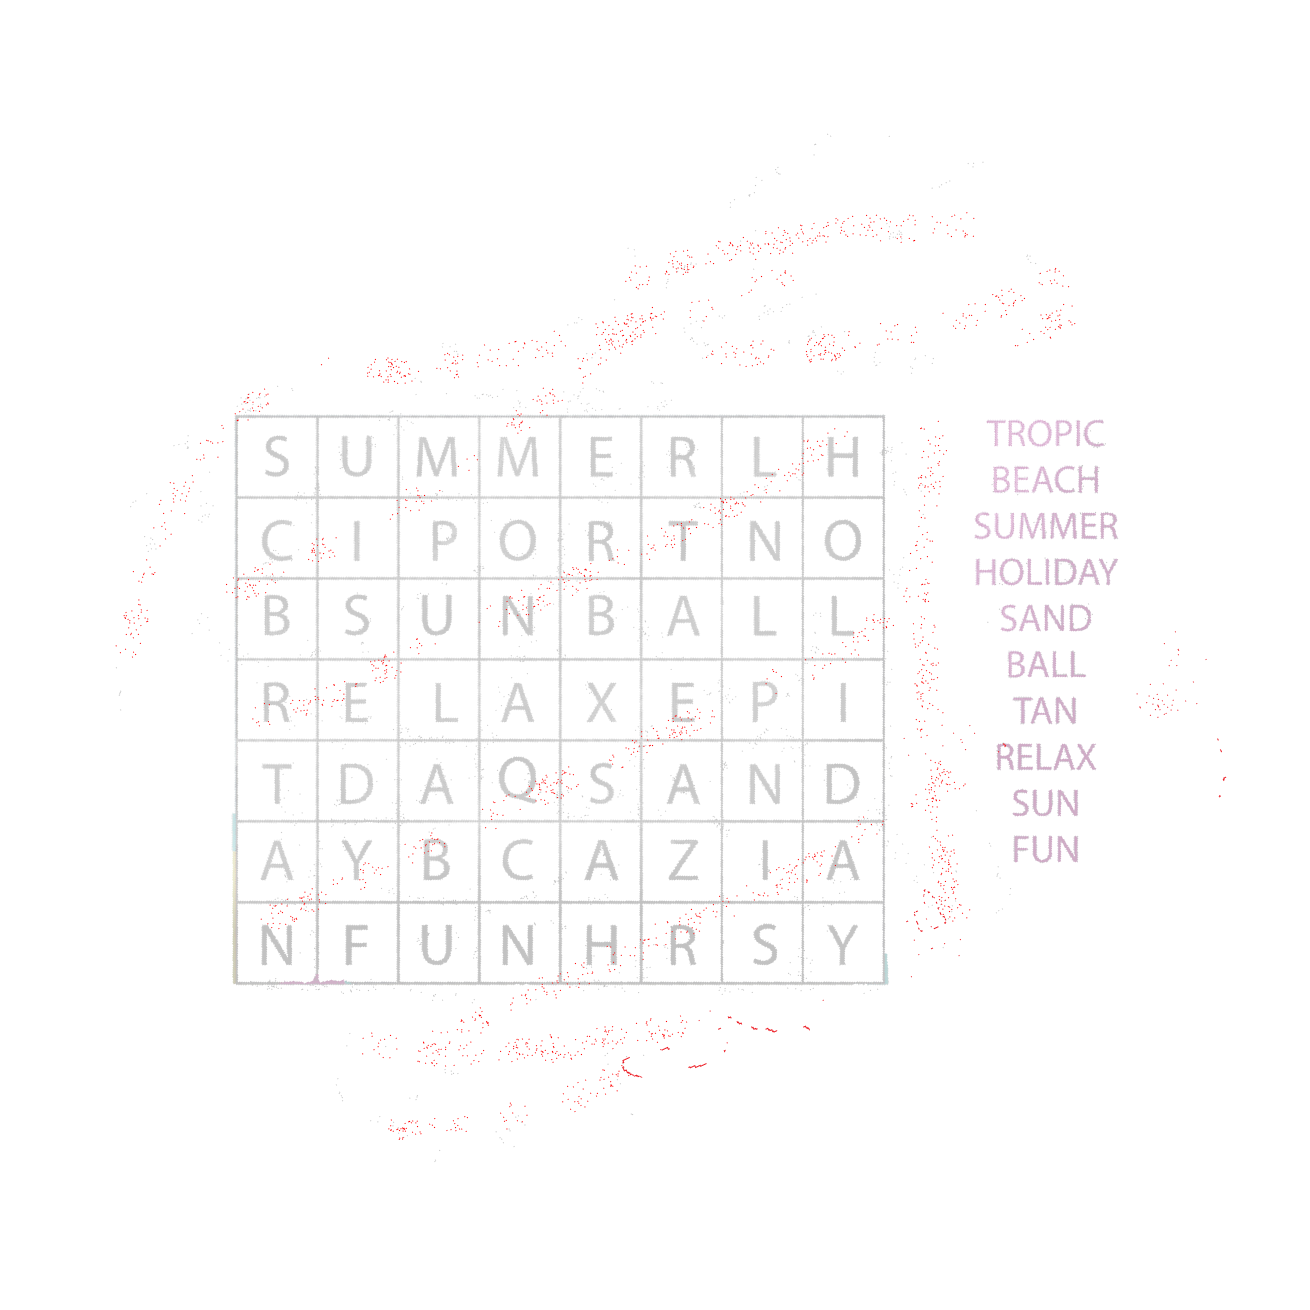
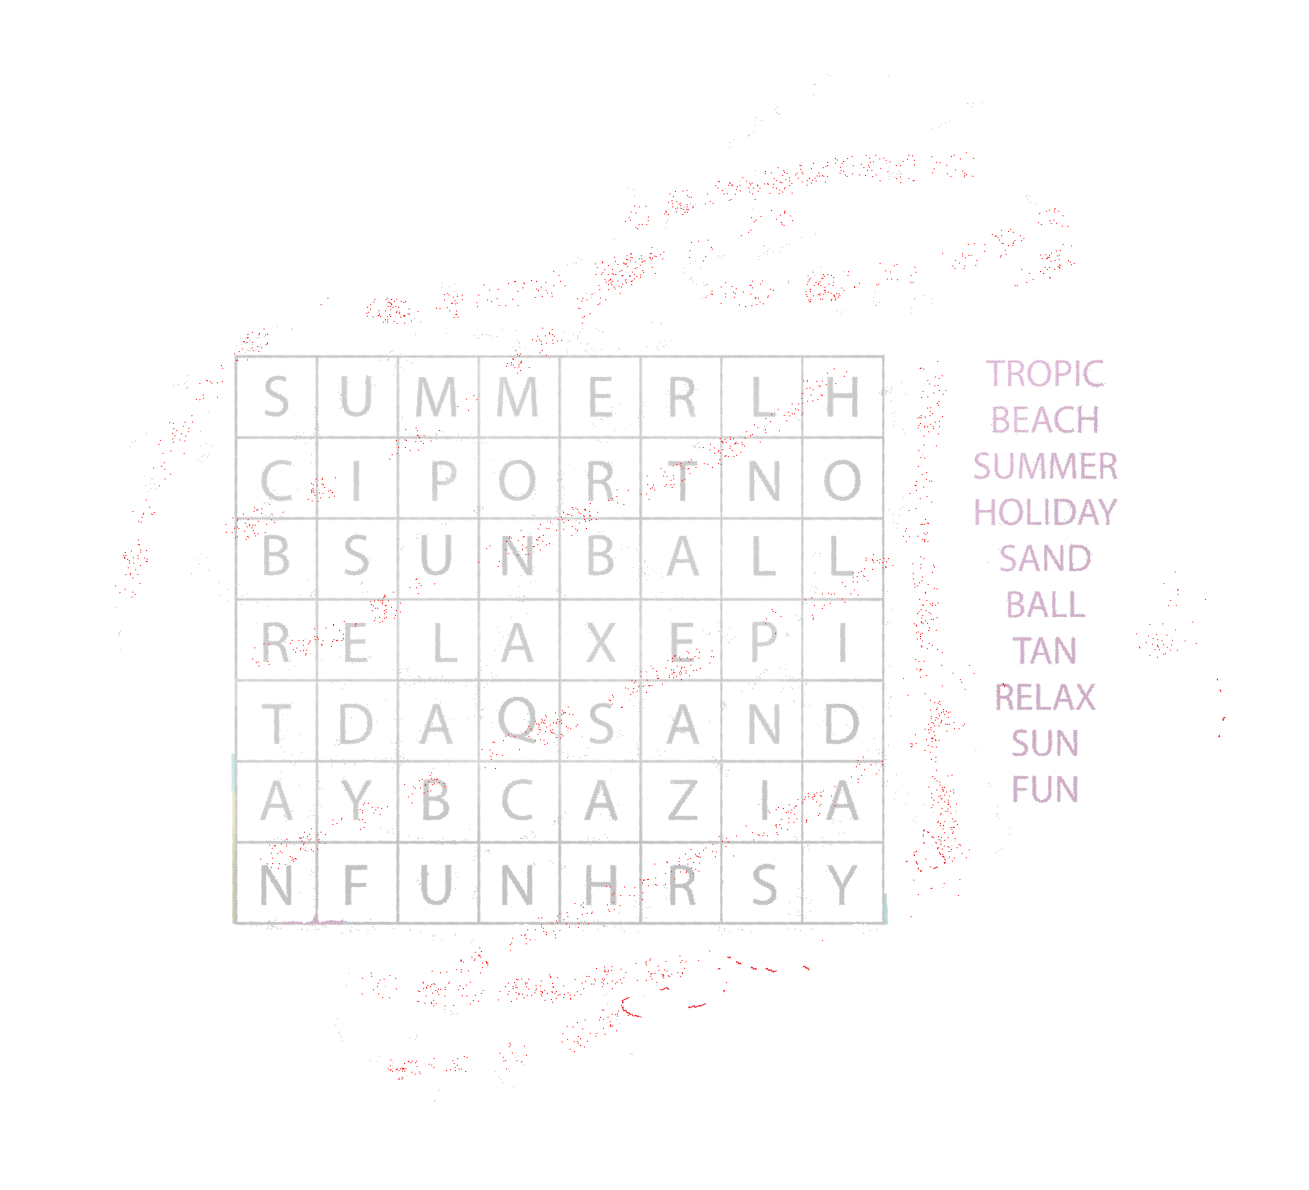
For some unknown reasons the program wasn't working when rotation was offset by 1 pixel

diff --git a/src/image/operations.c b/src/image/operations.c
@@ -1465,13 +1465,12 @@ void rotate_image(Image *image, double angle)
     int rotated_width = (int)ceil(original_width * cos_angle + original_height * sin_angle);
     int rotated_height = (int)ceil(original_width * sin_angle + original_height * cos_angle);
 
-    int square_size = rotated_width > rotated_height ? rotated_width : rotated_height;
-    if (original_width > square_size) square_size = original_width;
-    if (original_height > square_size) square_size = original_height;
+    int new_width = rotated_width - 1;
+    int new_height = rotated_height - 1;
 
-    if (square_size <= 0)
+    if (new_width <= 0 || new_height <= 0)
     {
-        fprintf(stderr, "Error: Invalid square dimension after rotation (%d)\n", square_size);
+        fprintf(stderr, "Error: Invalid dimensions after rotation (%dx%d)\n", new_width, new_height);
         return;
     }
 
@@ -1513,7 +1512,7 @@ void rotate_image(Image *image, double angle)
         return;
     }
 
-    target_surface = cairo_image_surface_create(CAIRO_FORMAT_ARGB32, square_size, square_size);
+    target_surface = cairo_image_surface_create(CAIRO_FORMAT_ARGB32, new_width, new_height);
     if (!target_surface || cairo_surface_status(target_surface) != CAIRO_STATUS_SUCCESS)
     {
         fprintf(stderr, "Error: Failed to create Cairo target surface\n");
@@ -1533,7 +1532,7 @@ void rotate_image(Image *image, double angle)
     cairo_set_source_rgba(cr, 1.0, 1.0, 1.0, 1.0);
     cairo_paint(cr);
 
-    cairo_translate(cr, square_size / 2.0, square_size / 2.0);
+    cairo_translate(cr, new_width / 2.0, new_height / 2.0);
     cairo_rotate(cr, radians);
     cairo_translate(cr, -original_width / 2.0, -original_height / 2.0);
 
@@ -1550,7 +1549,7 @@ void rotate_image(Image *image, double angle)
     unsigned char *target_data = cairo_image_surface_get_data(target_surface);
     int target_stride = cairo_image_surface_get_stride(target_surface);
 
-    uint32_t *new_rgba_pixels = (uint32_t *)malloc(square_size * square_size * sizeof(uint32_t));
+    uint32_t *new_rgba_pixels = (uint32_t *)malloc(new_width * new_height * sizeof(uint32_t));
     if (!new_rgba_pixels)
     {
         fprintf(stderr, "Error: Failed to allocate new RGBA buffer\n");
@@ -1558,11 +1557,11 @@ void rotate_image(Image *image, double angle)
         return;
     }
 
-    for (int y = 0; y < square_size; y++)
+    for (int y = 0; y < new_height; y++)
     {
-        for (int x = 0; x < square_size; x++)
+        for (int x = 0; x < new_width; x++)
         {
-            int idx = y * square_size + x;
+            int idx = y * new_width + x;
             uint32_t *pixel_ptr = (uint32_t *)(target_data + y * target_stride + x * 4);
             uint32_t argb = *pixel_ptr;
 
@@ -1581,11 +1580,11 @@ void rotate_image(Image *image, double angle)
     image->rgba_pixels = new_rgba_pixels;
     image->gray_pixels = NULL;
     image->is_grayscale = false;
-    image->width = square_size;
-    image->height = square_size;
+    image->width = new_width;
+    image->height = new_height;
 
     cairo_surface_destroy(target_surface);
 
-    printf("Rotated image by %.2f degrees (%dx%d -> %dx%d, filled with white)\n",
-           angle, original_width, original_height, square_size, square_size);
+    printf("Rotated image by %.2f degrees (%dx%d -> %dx%d, minimal white padding)\n",
+           angle, original_width, original_height, new_width, new_height);
 }

diff --git a/src/gui/gui.c b/src/gui/gui.c
@@ -240,6 +240,8 @@ static void show_file_chooser(void)
                                          action, "_Cancel", GTK_RESPONSE_CANCEL,
                                          "_Open", GTK_RESPONSE_ACCEPT, NULL);
 
+    gtk_file_chooser_set_current_folder(GTK_FILE_CHOOSER(dialog), "images");
+
     GtkFileFilter *filter = gtk_file_filter_new();
     gtk_file_filter_set_name(filter, "Image files");
     gtk_file_filter_add_mime_type(filter, "image/jpeg");
